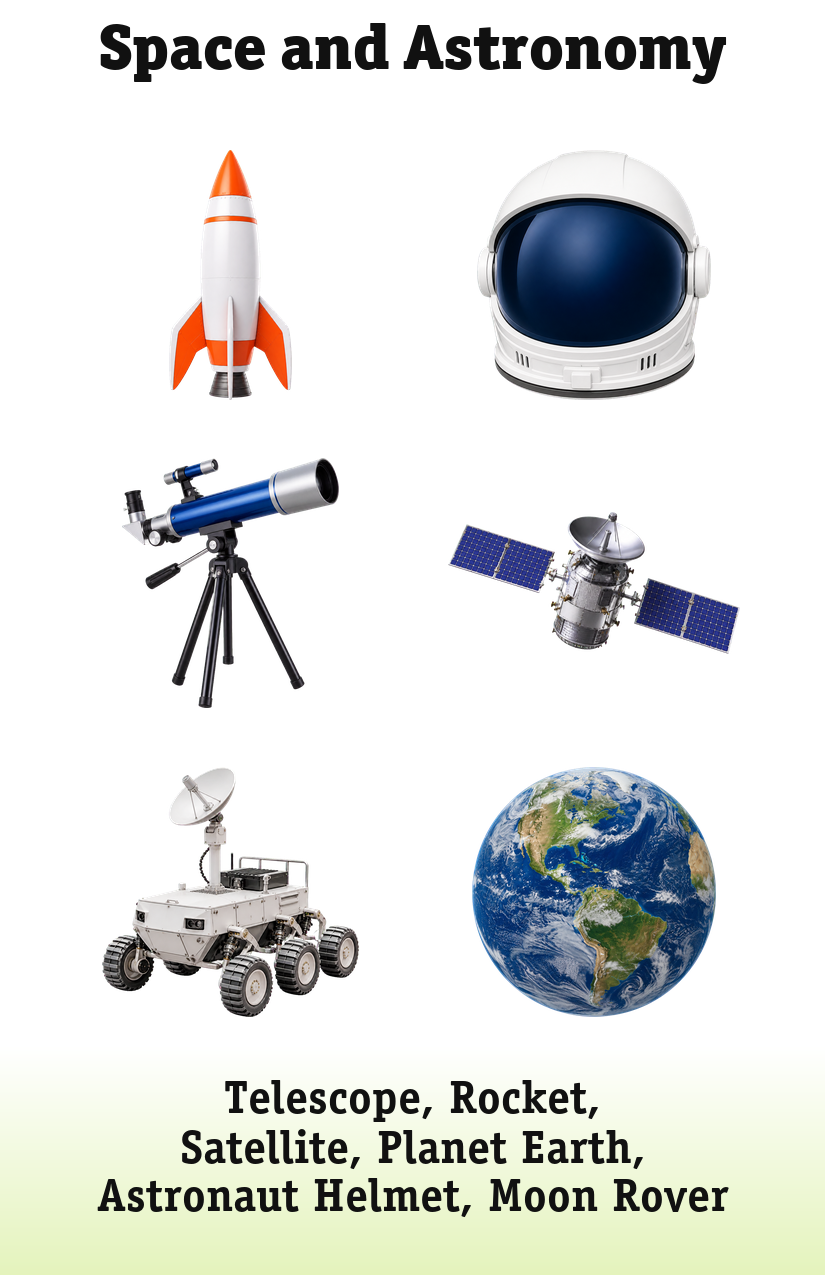
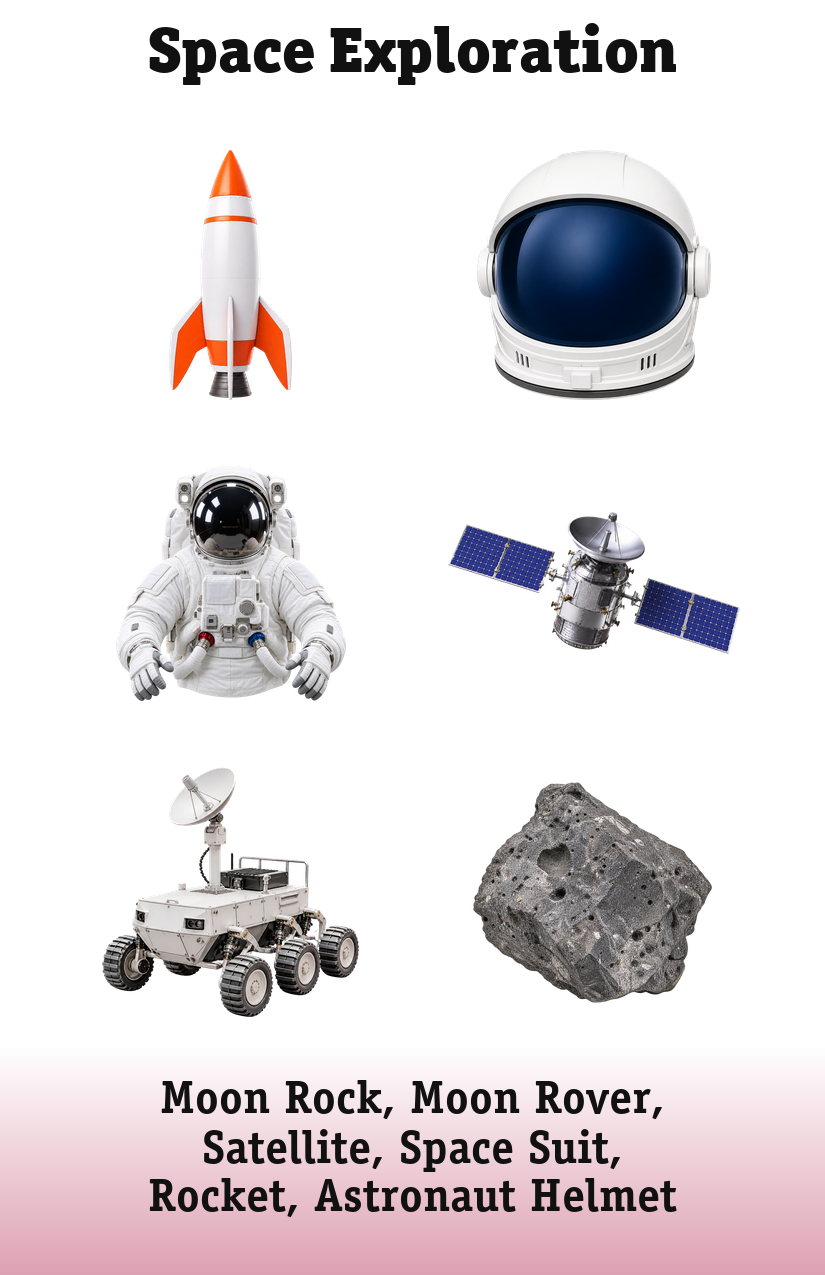
Rebuild Space Exploration pair set

diff --git a/picture-this/game-data.js b/picture-this/game-data.js
@@ -315,10 +315,10 @@ window.PICTURE_THIS_GAME_DATA = {
   "space-travel": [
     "Rocket",
     "Astronaut Helmet",
-    "Telescope",
+    "Space Suit",
     "Satellite",
     "Moon Rover",
-    "Planet Earth"
+    "Moon Rock"
   ],
   "hair-salon": [
     "Hair Dryer",
@@ -1406,6 +1406,42 @@ window.PICTURE_THIS_GAME_DATA = {
 window.PICTURE_THIS_GAME_META = {
   "schema_version": 1,
   "cards": {
+    "space-travel": {
+      "title": "Space Exploration",
+      "category_answers": ["Space Exploration", "Space Travel", "Space and Astronomy", "Exploring Space"],
+      "tags": ["space", "exploration", "astronauts", "moon"],
+      "items": [
+        {"id": "rocket", "label": "Rocket", "answers": ["Rocket", "Space Rocket"]},
+        {"id": "astronaut-helmet", "label": "Astronaut Helmet", "answers": ["Astronaut Helmet", "Space Helmet"]},
+        {"id": "space-suit", "label": "Space Suit", "answers": ["Space Suit", "Spacesuit", "Astronaut Suit"]},
+        {"id": "satellite", "label": "Satellite", "answers": ["Satellite", "Space Satellite"]},
+        {"id": "moon-rover", "label": "Moon Rover", "answers": ["Moon Rover", "Lunar Rover"]},
+        {"id": "moon-rock", "label": "Moon Rock", "answers": ["Moon Rock", "Lunar Rock"]}
+      ],
+      "links": [
+        {
+          "word": "launch",
+          "answers": ["launch", "launching"],
+          "items": ["rocket", "satellite"],
+          "explanation": "The rocket and satellite are the only two items shown directly joined when a rocket launches a satellite into space.",
+          "audit": "exclusive-among-six-v1"
+        },
+        {
+          "word": "worn",
+          "answers": ["worn", "wear", "wearable"],
+          "items": ["astronaut-helmet", "space-suit"],
+          "explanation": "The astronaut helmet and space suit are the only two items shown that an astronaut wears.",
+          "audit": "exclusive-among-six-v1"
+        },
+        {
+          "word": "moon",
+          "answers": ["moon", "lunar"],
+          "items": ["moon-rover", "moon-rock"],
+          "explanation": "The moon rover and moon rock are the only two items shown whose names and purpose are specifically connected to the Moon.",
+          "audit": "exclusive-among-six-v1"
+        }
+      ]
+    },
     "at-the-bakery": {
       "title": "At the Bakery",
       "category_answers": [

diff --git a/picture-this/question-data.js b/picture-this/question-data.js
@@ -1719,11 +1719,11 @@ window.PICTURE_THIS_QUESTION_DATA = {
   },
   "space-travel": {
     "questions": [
-      "Which items can travel through space?",
-      "Which item helps people look at distant objects?",
+      "Which items launch, protect astronauts, or explore the Moon?",
+      "Which item looks largest? Which looks smallest?",
       "What have you learned about space or the Moon?",
-      "How would a rocket and a moon rover be used on the same mission?",
-      "What might be difficult about living in space?",
+      "How could a rocket, satellite, and moon rover be used on one mission?",
+      "What might be difficult about living or working in space?",
       "Imagine you could visit another world. Where would you go and what would you explore?"
     ],
     "positions": [
@@ -1736,27 +1736,27 @@ window.PICTURE_THIS_QUESTION_DATA = {
     ],
     "endpoints": [
       {
-        "x": 29.09,
+        "x": 92.0,
         "y": 16.98
       },
       {
-        "x": 51.03,
-        "y": 27.33
+        "x": 49.7,
+        "y": 26.98
       },
       {
-        "x": 59.27,
-        "y": 37.33
+        "x": 59.64,
+        "y": 37.69
       },
       {
-        "x": 34.18,
+        "x": 34.55,
         "y": 52.0
       },
       {
-        "x": 50.55,
+        "x": 77.94,
         "y": 62.71
       },
       {
-        "x": 72.85,
+        "x": 73.21,
         "y": 77.37
       }
     ]

diff --git a/picture-this/link-data.js b/picture-this/link-data.js
@@ -380,11 +380,7 @@ const auditedLinkAdditions = {
     pictureThisLink("seated", [0,5], "Sled and snow tube are the only two winter items shown ridden while sitting on top of them.")
   ],
   "movie-night": [pictureThisLink("circular", [0,5], "Popcorn tub and film reel are the only two movie items shown with dominant circular or cylindrical forms.")],
-  "space-travel": [
-    pictureThisLink("orbit", [0,3], "Rocket and satellite are the only two objects shown that form a launch vehicle and its orbital payload pair."),
-    pictureThisLink("lunar", [1,4], "Helmet and moon rover are the only two items shown specifically designed for astronaut travel on the lunar surface."),
-    pictureThisLink("observation", [2,5], "Telescope and Earth are the only two items shown that form an observation instrument and its pictured distant target pair.")
-  ],
+  "space-travel": [],
   "hair-salon": [
     pictureThisLink("curls", [4,5], "Hair rollers and curling iron are the only two salon tools shown specifically designed to create curls."),
     pictureThisLink("washing", [1,2], "Shampoo and salon chair are the only two items shown directly joined at a salon hair-washing station.")

diff --git a/picture-this/index.html b/picture-this/index.html
@@ -1805,7 +1805,7 @@
   },
   {
     "id": "space-travel",
-    "title": "Space and Astronomy",
+    "title": "Space Exploration",
     "front": "pages/page_079.png",
     "back": "pages/page_080.png"
   },
